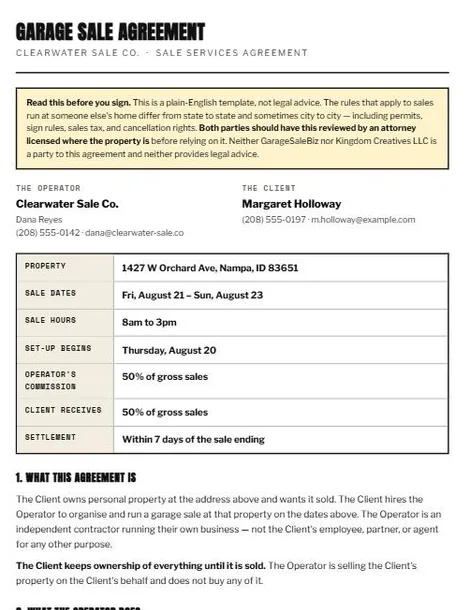
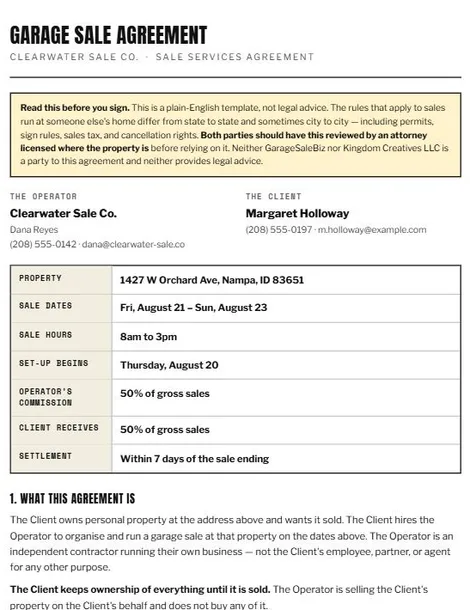
fix(type): stop synthesising bold on Anton headings
Anton ships one weight. Every rule that reached for --display (or the literal 'Anton') on an h1-h6 inherited the UA's bold, so the browser synthesised a fake one over a face that has none. gsb.css already forbids this on .display; the 13 rules that never used .display had no guard.

Most visible on the six kit cards, which is what prompted this. The one with reach beyond the screen is contracts.html .doc h1/.doc h2 - those render in the printed client agreement, so every operator's contract has been printing a smeared title and section headings.

Text is unchanged everywhere; only the synthetic weight is removed.

assets/proof/contract.webp is re-shot because that CSS change alters the document it photographs. Captured from localhost so the proof matches what this commit deploys, not what is currently live.

Changed region(s): [[0.0, 0.0311, 0.983, 1.0]]

diff --git a/index.html b/index.html
@@ -114,7 +114,11 @@
 @media (max-width: 520px) { .kit { grid-template-columns: 1fr; } }
 .kit-item { border: 2px solid var(--ink-line); background: var(--ink-soft); padding: 18px; }
 .kit-item .ico { font-size: 1.6rem; line-height: 1; }
-.kit-item h3 { font-family: var(--display); text-transform: uppercase; font-size: 1rem; margin: 10px 0 6px; letter-spacing: .03em; }
+/* font-weight:400 because Anton ships one weight. An h1–h6 inherits the UA's
+   bold, and the browser then SYNTHESISES a fake bold over a face that has none
+   — which is what made these headings read heavy. .display carries the same
+   guard; every rule that reaches for --display without it needs its own. */
+.kit-item h3 { font-family: var(--display); font-weight: 400; text-transform: uppercase; font-size: 1rem; margin: 10px 0 6px; letter-spacing: .03em; }
 .kit-item p { font-size: 14px; color: var(--on-ink-dim); line-height: 1.6; }
 
 /* ── PRICE ───────────────────────────────────────────────────────────────── */
@@ -122,7 +126,7 @@
 @media (max-width: 820px) { .price-wrap { grid-template-columns: 1fr; } }
 .price-side { display: flex; flex-direction: column; gap: 18px; }
 .price-note { border: 2px solid var(--ink-line); background: var(--ink-soft); padding: 18px; font-size: 14px; line-height: 1.65; color: var(--on-ink-dim); }
-.price-note h4 { font-family: var(--display); text-transform: uppercase; font-size: .95rem; color: var(--on-ink); margin-bottom: 7px; letter-spacing: .03em; }
+.price-note h4 { font-family: var(--display); font-weight: 400; text-transform: uppercase; font-size: .95rem; color: var(--on-ink); margin-bottom: 7px; letter-spacing: .03em; }
 
 /* ── FAQ ─────────────────────────────────────────────────────────────────── */
 .faq { margin-top: 26px; border: 2px solid var(--ink-line); }

diff --git a/contracts.html b/contracts.html
@@ -16,7 +16,7 @@
 
 .panel { background: var(--ink-soft); border-right: 3px solid var(--sign); padding: 22px 20px 60px; overflow-y: auto; }
 @media (min-width: 1021px) { .panel { max-height: 100vh; position: sticky; top: 0; } }
-.panel h1 { font-family: var(--display); text-transform: uppercase; font-size: 1.15rem; letter-spacing: .04em; }
+.panel h1 { font-family: var(--display); font-weight: 400; text-transform: uppercase; font-size: 1.15rem; letter-spacing: .04em; }
 .panel .sub { font-size: 14px; color: var(--on-ink-dim); margin: 6px 0 18px; line-height: 1.6; }
 fieldset { border: none; margin-bottom: 20px; }
 legend {
@@ -52,13 +52,16 @@ legend {
   margin-bottom: 26px;
 }
 .doc h1 {
-  font-family: 'Anton', Impact, sans-serif; text-transform: uppercase;
+  /* font-weight:400 — Anton ships one weight, so an h1's inherited bold makes
+     the browser synthesise a fake one. On screen that is a smear; on a printed
+     agreement it is a smear at 300dpi. */
+  font-family: 'Anton', Impact, sans-serif; font-weight: 400; text-transform: uppercase;
   font-size: 22pt; line-height: 1.05; letter-spacing: .01em; margin-bottom: .06in;
 }
 .doc .doc-sub { font-size: 9.5pt; letter-spacing: .16em; text-transform: uppercase; color: #555; }
 .doc-rule { border-top: 2px solid #111; margin: .18in 0 .22in; }
 .doc h2 {
-  font-family: 'Anton', Impact, sans-serif; text-transform: uppercase;
+  font-family: 'Anton', Impact, sans-serif; font-weight: 400; text-transform: uppercase;
   font-size: 12pt; letter-spacing: .04em; margin: .24in 0 .07in;
 }
 .doc p { margin-bottom: .1in; }

diff --git a/course.html b/course.html
@@ -54,7 +54,7 @@
 .mv-tag { margin-top: 8px; font-size: 15px; color: var(--on-ink-dim); line-height: 1.7; max-width: 68ch; }
 
 .obj { border: 2px solid var(--sign); background: rgba(255,206,59,.06); padding: 18px 20px; margin-bottom: 26px; }
-.obj h3 { font-family: var(--display); text-transform: uppercase; font-size: .95rem; color: var(--sign); letter-spacing: .04em; margin-bottom: 10px; }
+.obj h3 { font-family: var(--display); font-weight: 400; text-transform: uppercase; font-size: .95rem; color: var(--sign); letter-spacing: .04em; margin-bottom: 10px; }
 .obj ol { margin-left: 20px; }
 .obj li { font-size: 14px; line-height: 1.65; margin-bottom: 6px; }
 
@@ -78,7 +78,7 @@
 
 /* ── LESSON PROSE ─────────────────────────────────────────────────────────── */
 .lesson-body h3 {
-  font-family: var(--display); text-transform: uppercase; font-size: 1.05rem;
+  font-family: var(--display); font-weight: 400; text-transform: uppercase; font-size: 1.05rem;
   letter-spacing: .03em; color: var(--sign); margin: 24px 0 9px;
 }
 .lesson-body h3:first-child { margin-top: 8px; }

diff --git a/assets/legal.css b/assets/legal.css
@@ -42,7 +42,9 @@ body.legal .nav {
   padding: 20px 22px; margin: 24px 0 30px; box-shadow: var(--hard-sm);
 }
 .legal-summary h2 {
-  font-family: var(--display); text-transform: uppercase; font-size: 1.05rem;
+  /* font-weight:400 — Anton has one weight; an h2 inherits the UA bold and the
+     browser then synthesises a fake bold over a face that has none. */
+  font-family: var(--display); font-weight: 400; text-transform: uppercase; font-size: 1.05rem;
   letter-spacing: .04em; margin-bottom: 12px; color: var(--ink);
 }
 .legal-summary ul { list-style: none; }
@@ -67,7 +69,7 @@ body.legal .nav {
 
 .legal-wrap section { margin-bottom: 30px; scroll-margin-top: 84px; }
 .legal-wrap h2 {
-  font-family: var(--display); text-transform: uppercase;
+  font-family: var(--display); font-weight: 400; text-transform: uppercase;
   font-size: clamp(1.15rem, 2.6vw, 1.5rem); letter-spacing: .02em;
   color: var(--ink); padding-bottom: 8px; border-bottom: 2px solid var(--ink);
   margin-bottom: 14px;

diff --git a/dashboard.html b/dashboard.html
@@ -78,7 +78,7 @@
 .row-acts { display: flex; gap: 8px; flex-wrap: wrap; }
 
 .empty { border: 3px dashed var(--ink-line); padding: 30px 22px; text-align: center; color: var(--on-ink-dim); }
-.empty h3 { font-family: var(--display); text-transform: uppercase; font-size: 1.1rem; color: var(--on-ink); margin-bottom: 7px; }
+.empty h3 { font-family: var(--display); font-weight: 400; text-transform: uppercase; font-size: 1.1rem; color: var(--on-ink); margin-bottom: 7px; }
 
 /* ── ITEM GRID ────────────────────────────────────────────────────────────── */
 .igrid { display: grid; grid-template-columns: repeat(auto-fill, minmax(200px, 1fr)); gap: 13px; }

diff --git a/assets/storefront.css b/assets/storefront.css
@@ -117,7 +117,7 @@
 .sf-past { margin: 10px 0 40px; }
 .sf-past-grid { display: grid; grid-template-columns: repeat(auto-fill, minmax(230px, 1fr)); gap: 14px; margin-top: 16px; }
 .sf-past-item { border: 2px solid var(--ink-line); background: var(--ink-soft); padding: 15px; }
-.sf-past-title { font-family: var(--display); text-transform: uppercase; font-size: 1rem; margin: 8px 0 5px; letter-spacing: .02em; }
+.sf-past-title { font-family: var(--display); font-weight: 400; text-transform: uppercase; font-size: 1rem; margin: 8px 0 5px; letter-spacing: .02em; }
 
 .sf-contact { border-top: 3px solid var(--ink-line); padding: 46px 0; }
 .sf-contact-rows { display: flex; flex-wrap: wrap; gap: 12px; margin-top: 20px; }

diff --git a/thank-you.html b/thank-you.html
@@ -39,7 +39,7 @@
 .next-item { display: flex; gap: 16px; padding: 18px; border-bottom: 2px solid var(--ink-line); }
 .next-item:last-child { border-bottom: none; }
 .next-n { font-family: var(--display); font-size: 2rem; line-height: 1; color: var(--sign); flex-shrink: 0; width: 30px; }
-.next-b h3 { font-family: var(--display); text-transform: uppercase; font-size: 1rem; letter-spacing: .03em; margin-bottom: 5px; }
+.next-b h3 { font-family: var(--display); font-weight: 400; text-transform: uppercase; font-size: 1rem; letter-spacing: .03em; margin-bottom: 5px; }
 .next-b p { font-size: 14px; line-height: 1.65; color: var(--on-ink-dim); }
 .next-b a { color: var(--sign); font-weight: 700; }
 

diff --git a/admin-owner.html b/admin-owner.html
@@ -50,7 +50,7 @@
   border: 3px solid var(--stamp); background: rgba(192,49,31,.12);
   padding: 16px 18px; margin-bottom: 20px;
 }
-.warn-strip h3 { font-family: var(--display); text-transform: uppercase; font-size: 1.05rem; color: #FFB4A2; margin-bottom: 8px; }
+.warn-strip h3 { font-family: var(--display); font-weight: 400; text-transform: uppercase; font-size: 1.05rem; color: #FFB4A2; margin-bottom: 8px; }
 
 .mono-cell { font-family: var(--mono); font-size: 12px; word-break: break-all; }
 details.acc { border: 2px solid var(--ink-line); background: var(--ink-soft); padding: 13px 15px; margin-bottom: 10px; }

diff --git a/intake.html b/intake.html
@@ -96,7 +96,7 @@
 #blocked { display: none; margin-bottom: 20px; }
 #blocked.show { display: block; }
 .blocked-in { border: 3px solid var(--stamp); background: rgba(192,49,31,.1); padding: 20px; }
-.blocked-in h3 { font-family: var(--display); text-transform: uppercase; font-size: 1.15rem; color: #FFB4A2; margin-bottom: 8px; }
+.blocked-in h3 { font-family: var(--display); font-weight: 400; text-transform: uppercase; font-size: 1.15rem; color: #FFB4A2; margin-bottom: 8px; }
 
 .price-strip {
   display: flex; justify-content: space-between; align-items: center; gap: 16px; flex-wrap: wrap;

diff --git a/signs.html b/signs.html
@@ -19,7 +19,7 @@
   padding: 22px 20px 60px; overflow-y: auto;
 }
 @media (min-width: 1001px) { .panel { max-height: 100vh; position: sticky; top: 0; } }
-.panel h1 { font-family: var(--display); text-transform: uppercase; font-size: 1.15rem; letter-spacing: .04em; }
+.panel h1 { font-family: var(--display); font-weight: 400; text-transform: uppercase; font-size: 1.15rem; letter-spacing: .04em; }
 .panel .sub { font-size: 14px; color: var(--on-ink-dim); margin: 6px 0 20px; line-height: 1.6; }
 fieldset { border: none; margin-bottom: 22px; }
 legend {
